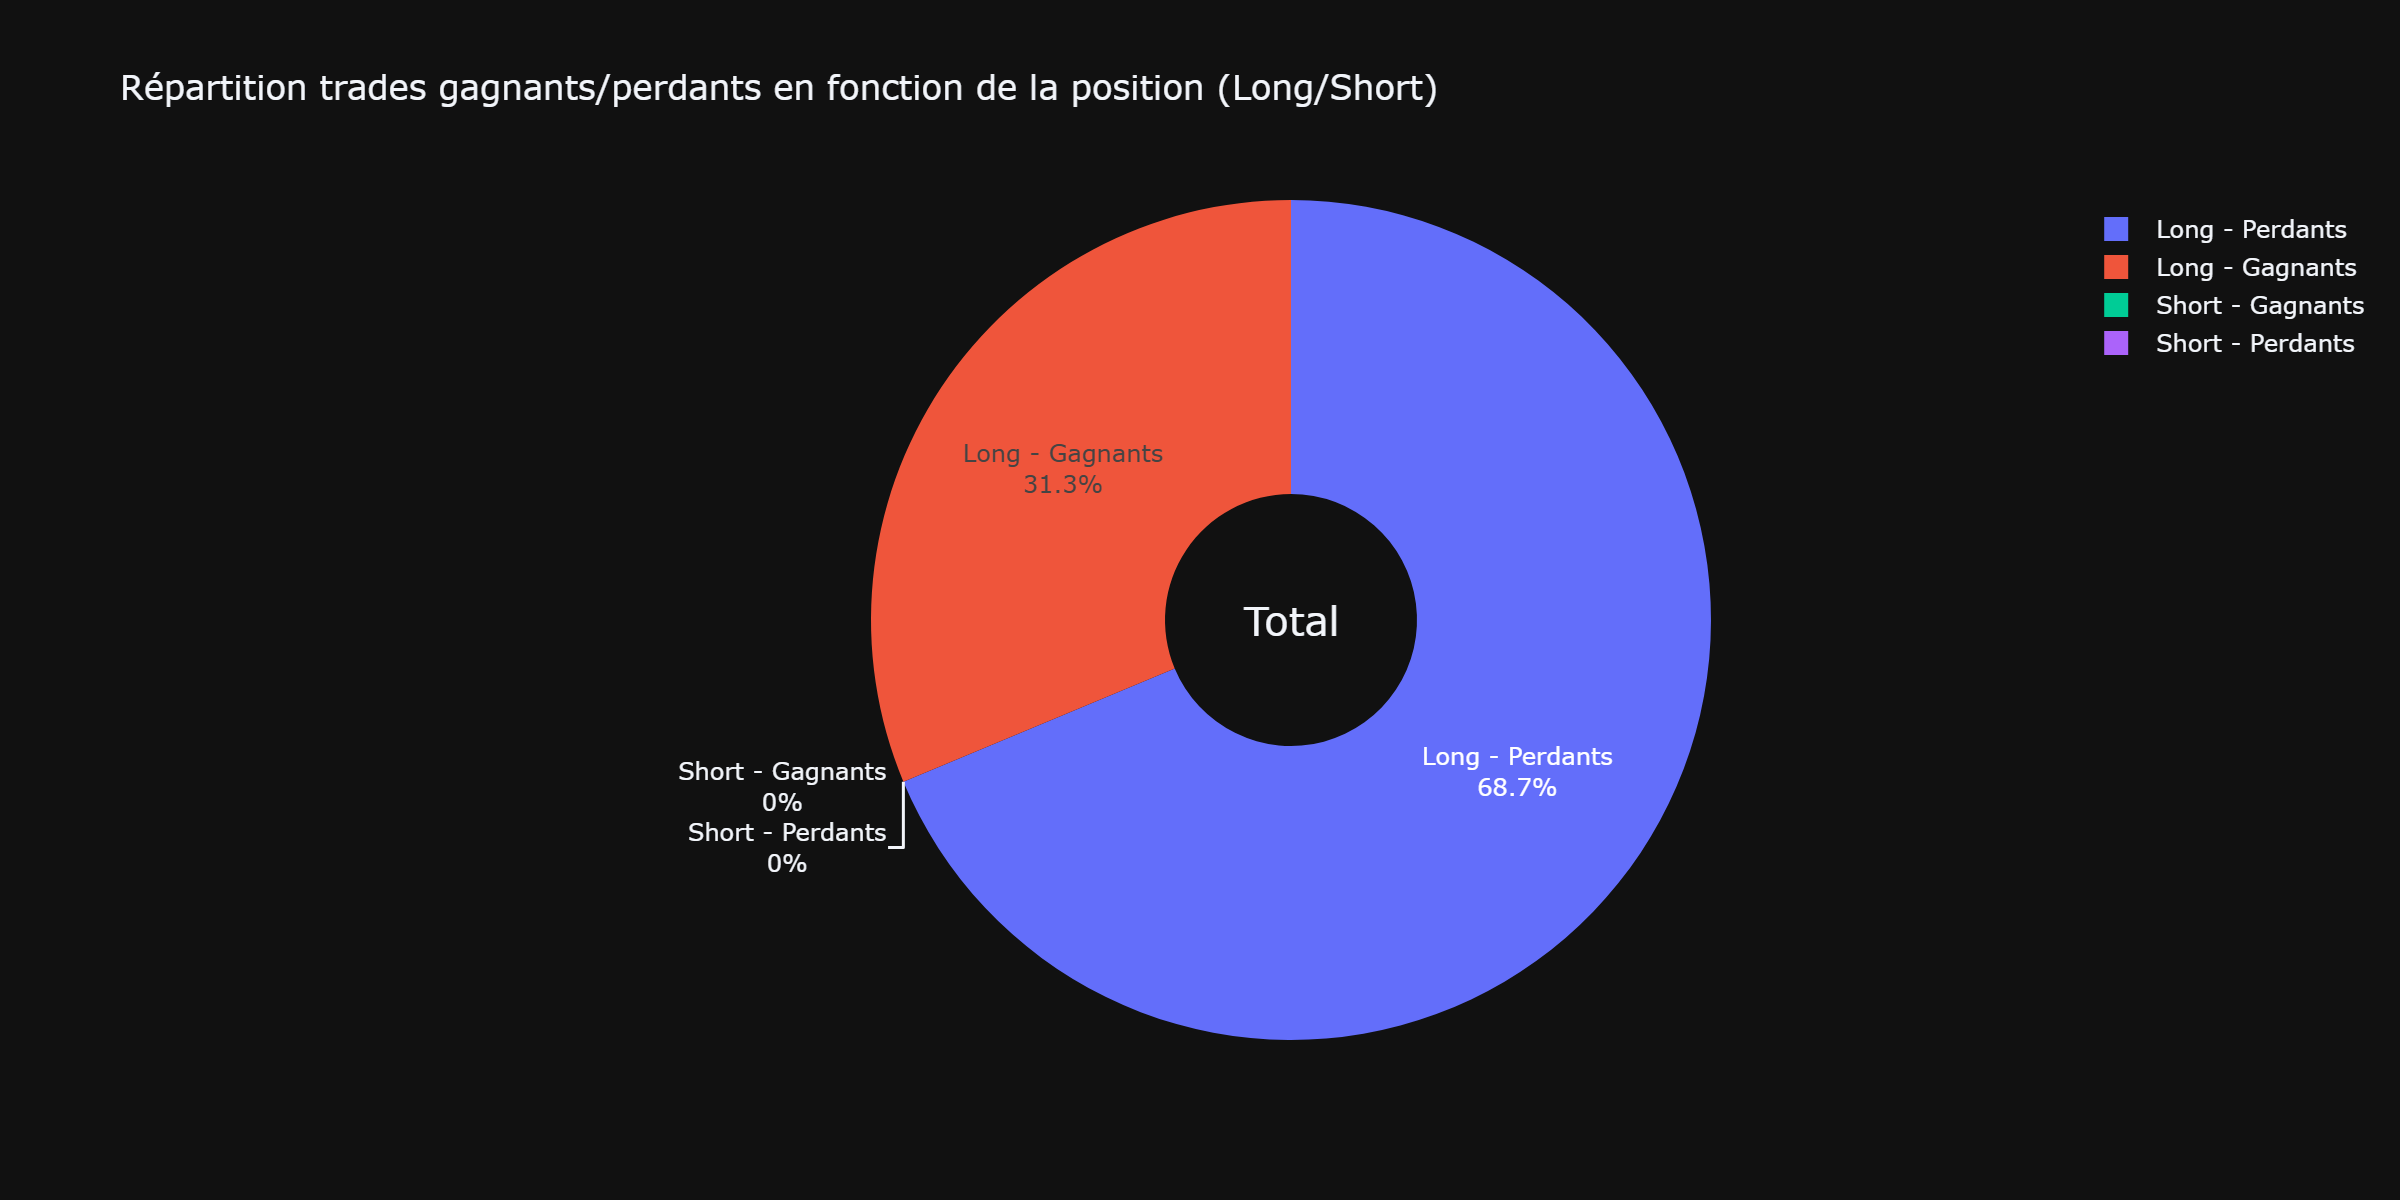
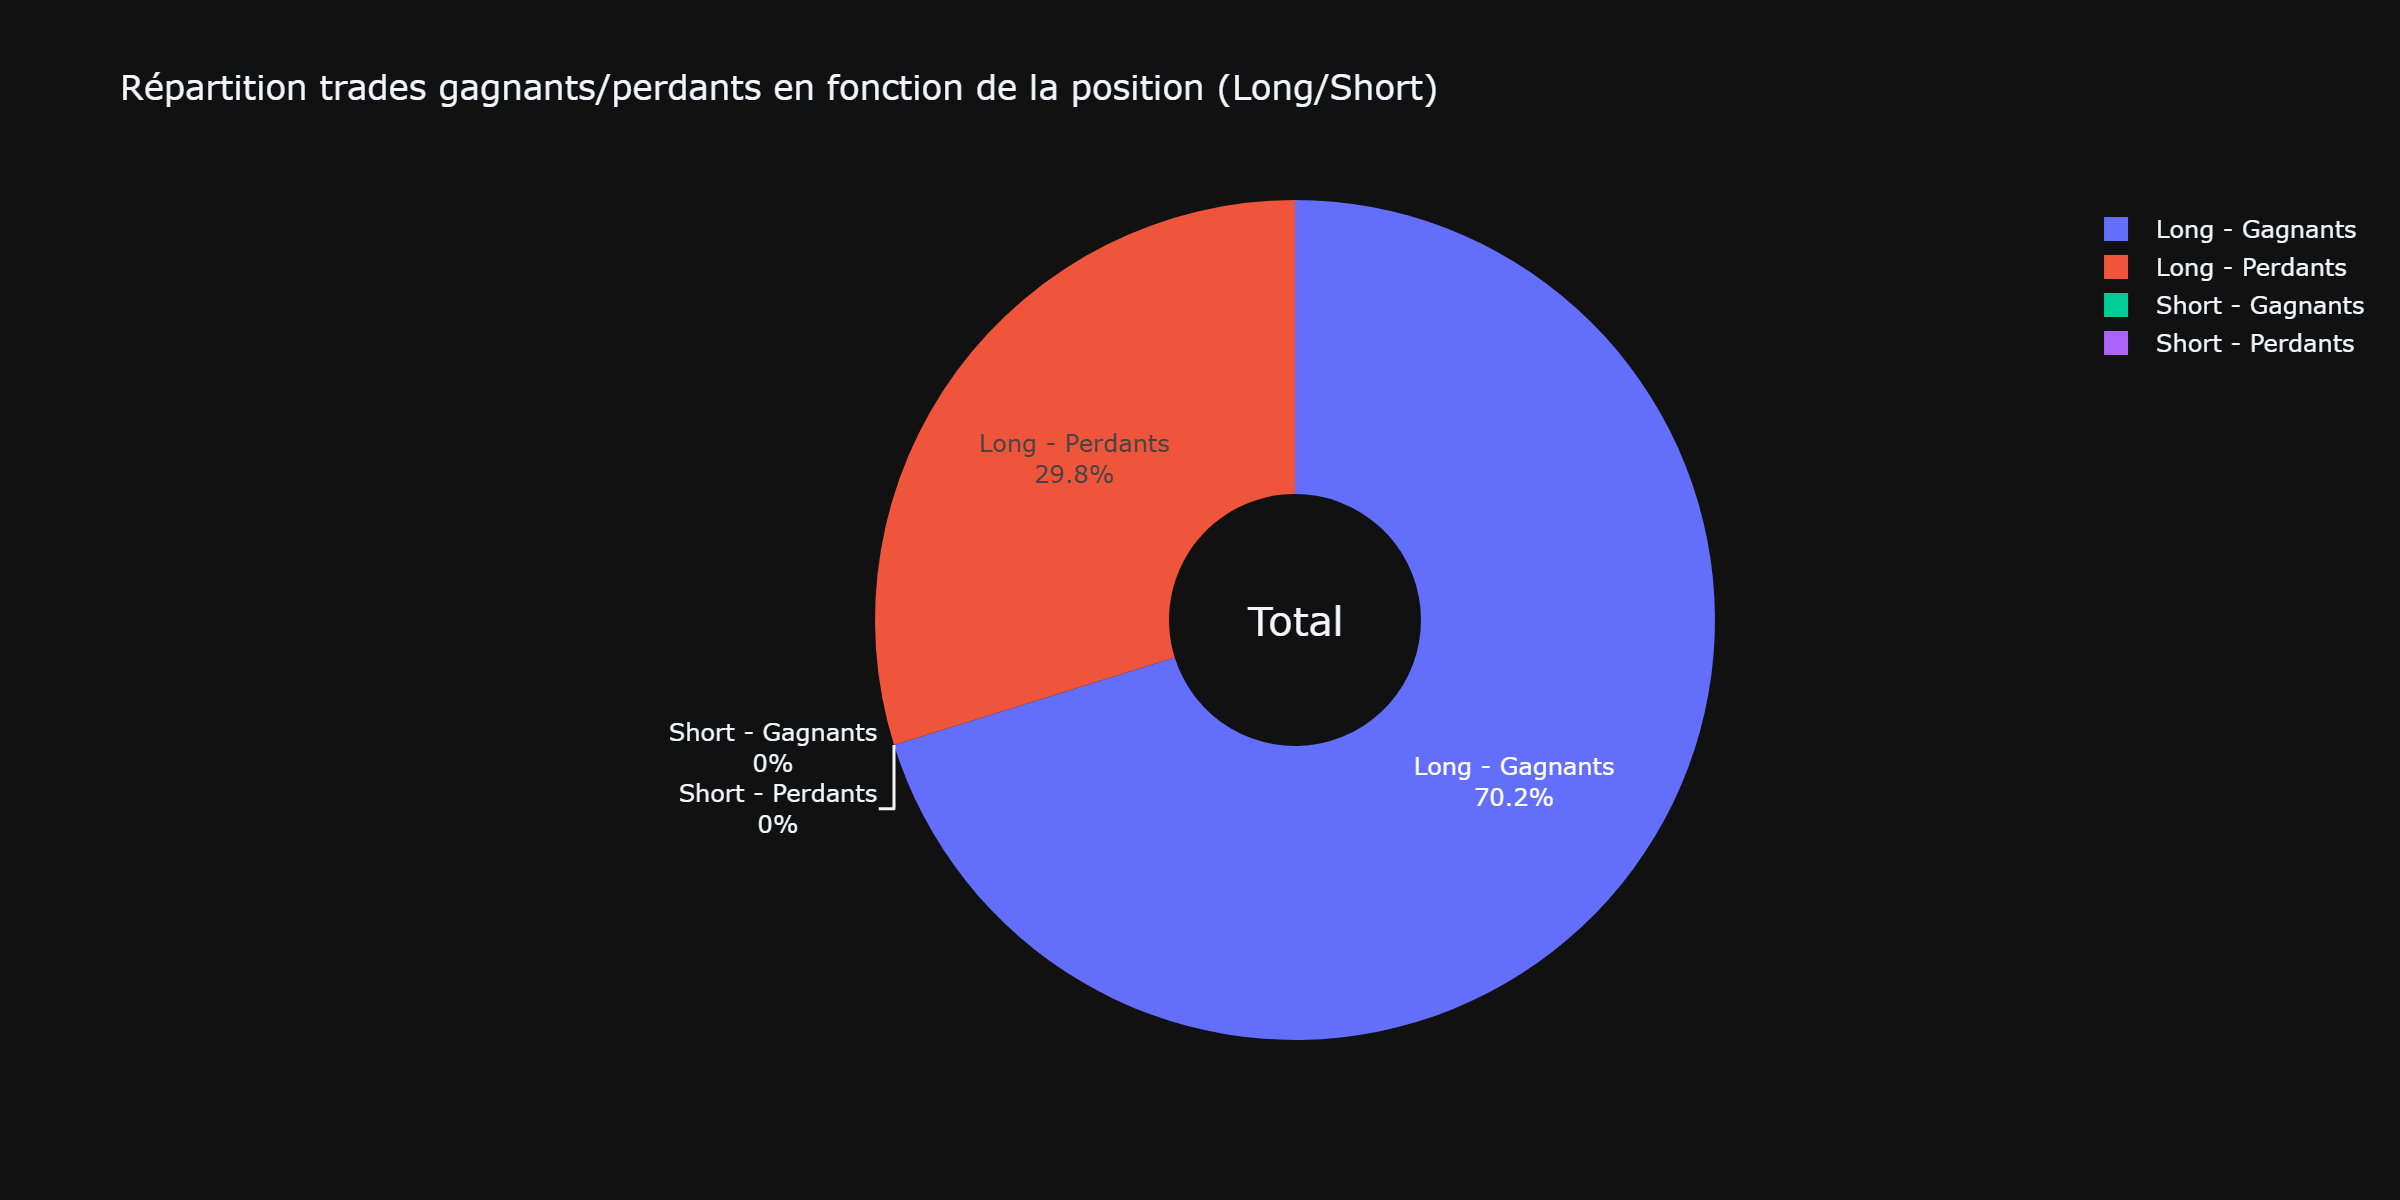
modif caliibration code to adapt for modifications

diff --git a/run_calibration.py b/run_calibration.py
@@ -1,7 +1,8 @@
-from tqdm import tqdm
-
-from src.data import load_histo_cac, load_stock_prices
-from src.utils import config_logger, save_single_graph, plot_calibration_results
+import pandas as pd
+from pathlib import Path
+from tqdm import tqdm 
+from src.data import load_compo_universe, load_stock_prices
+from src.utils import config_logger, format_financial_report, save_single_graph, plot_calibration_results
 from src.workflow import run_rolling_backtest, compute_rebal_date
 from config import Config
 
@@ -10,34 +11,62 @@ from config import Config
 # TODO: dans le tableau comparatif mettre les data du benchmark
 # TODO: mettre le formatting dans la librairie backtesting
 # TODO: faire cross-validation pour ma strat
-# TODO: finir de trouver les tickers du CAC
+# TODO: faire du volatility time management pour essayer de réduire la vol en baissant moins les returns pour booster sharp ratio
+# => cela pourrais définir notre date de rebal qui serait dynamique
+# TODO: corriger survivor bias
+# TODO: ajouter le rf asset
+# TODO: faire alpha against momentum
+
+# TODO: corriger les trous temporels dans nos df
 
 if __name__ == "__main__" :
     conf = Config()
 
     logger = config_logger()
-    logger.info('Running Calibration')
-
-
+    logger.info('Running strat')
 
     logger.info("Step1: Data Loadings")
-    histo_compo_cac = load_histo_cac()
-    all_tickers = [conf.BENCHMARK] + list(histo_compo_cac.columns)
-    stock_returns, stock_prices = load_stock_prices(all_tickers, univers=conf.BENCHMARK)
-    stock_returns.dropna(subset=[conf.BENCHMARK], inplace=True)
+    compo_universe = pd.read_csv(r"data\raw\compo_sp500_final.csv", parse_dates=['MbrStartDt', 'MbrEndDt'])
 
+    path = r"data\raw\stock_prices_final.csv"
+    stock_prices = pd.read_csv(path, parse_dates=['date'])
+    stock_prices.sort_values("date", inplace=True) # S'assurer que tout est trié avant
+    stock_prices['RET_calc'] = stock_prices.groupby("PERMNO")['PRC'].pct_change()
 
-    bench_returns = stock_returns[conf.BENCHMARK].copy()
-    df_stocks_ret = stock_returns.drop(columns=[conf.BENCHMARK]).copy()
+    stock_prices = stock_prices[stock_prices['date'] < conf.END_DATE_STRAT].copy()
+    stock_prices['PERMNO'] = stock_prices['PERMNO'].apply(str)
+    compo_universe['PERMNO'] = compo_universe['PERMNO'].apply(str)
 
+    df_fama = pd.read_csv(
+        r"data\raw\F-F_Research_Data_5_Factors_2x3_daily.csv", 
+        skiprows=3, 
+        skipfooter=1, 
+        sep=",", 
+        index_col=0, 
+        parse_dates=True, 
+        engine='python'
+        )
+    df_mom = pd.read_csv(
+        r"data\raw\F-F_Momentum_Factor_daily.csv", 
+        skiprows=12, 
+        skipfooter=1, 
+        sep=",", 
+        index_col=0, 
+        parse_dates=True, 
+        engine='python'
+        )
+    bench_returns = pd.concat([df_fama['Mkt-RF'], df_mom], axis=1)
+    bench_returns.dropna(inplace=True)
+    bench_returns = (bench_returns['Mkt-RF'] / 100).to_frame()
+    bench_returns = bench_returns[bench_returns.index < conf.END_DATE_STRAT].copy()
 
-    sharps = {}
+    
+    sharps= {}
     for window_value in tqdm(range(1, 25)) :
         WINDOW_list = [window_value]
-        rebal_dates = compute_rebal_date(window_value, stock_returns, bench_returns, conf.START_DATE, conf.UNIT, conf.STEP, logger)
-        engine = run_rolling_backtest(WINDOW_list, rebal_dates, stock_prices, df_stocks_ret, histo_compo_cac, logger, bench_returns, conf.UNIT, conf.INITIAL_CAPITAL, conf.BENCHMARK, conf.MAX_VOL)
+        rebal_dates = compute_rebal_date(conf.WINDOW, stock_prices, bench_returns, conf.START_DATE, conf.UNIT, conf.STEP, logger)
+        engine = run_rolling_backtest(WINDOW_list, rebal_dates, stock_prices, compo_universe, logger, bench_returns, conf.UNIT, conf.INITIAL_CAPITAL, conf.MAX_VOL, conf.END_DATE_STRAT)
         sharps[window_value] = engine.summary()['sharpe_ratio']
-
     fig = plot_calibration_results(sharps, robustness_range=(19, 22))
 
     save_single_graph(fig, "Calibration")

diff --git a/results/report.md b/results/report.md
@@ -1,25 +1,25 @@
 |                                                        | Value        |
 |:-------------------------------------------------------|:-------------|
-| ('Performance', 'Net Profit ($)')                      | 18,032       |
-| ('Performance', 'Annual Return')                       | 1.99%        |
-| ('Performance', 'Alpha (Ann.)')                        | 1.99%        |
-| ('Performance', 'Total Return')                        | 1.80%        |
-| ('Risk Profile', 'Sharpe Ratio')                       | 0.21         |
-| ('Risk Profile', 'Sortino Ratio')                      | 0.33         |
-| ('Risk Profile', 'Max Drawdown')                       | 10.08%       |
-| ('Risk Profile', 'Volatility')                         | 9.59%        |
-| ('Risk Profile', 'R-Squared')                          | 0.004        |
-| ('Trade Stats', 'Nb Transacs Total')                   | 2717         |
-| ('Trade Stats', 'Win Rate')                            | 31.3%        |
-| ('Trade Stats', 'Avg Winner')                          | 4.38%        |
-| ('Trade Stats', 'Avg Loser')                           | -5.36%       |
-| ('Trade Stats', 'Holding Period')                      | 28 jours     |
-| ('Autres / Détails', 'Calmar Ratio')                   | 0.2000       |
-| ('Autres / Détails', 'Max Cash Needed')                | 1003057.8900 |
-| ('Autres / Détails', 'Average Transac Day')            | 209.0000     |
-| ('Autres / Détails', 'Max Nb Transac Day')             | 496.0000     |
-| ('Autres / Détails', 'Daily Portfolio Average Return') | 0.0001       |
-| ('Autres / Détails', 'Avg Profit Per Ops')             | -0.0280      |
+| ('Performance', 'Net Profit ($)')                      | 58,838       |
+| ('Performance', 'Annual Return')                       | 6.46%        |
+| ('Performance', 'Alpha (Ann.)')                        | 3.00%        |
+| ('Performance', 'Total Return')                        | 5.83%        |
+| ('Risk Profile', 'Sharpe Ratio')                       | 0.76         |
+| ('Risk Profile', 'Sortino Ratio')                      | 1.22         |
+| ('Risk Profile', 'Max Drawdown')                       | 8.96%        |
+| ('Risk Profile', 'Volatility')                         | 8.47%        |
+| ('Risk Profile', 'R-Squared')                          | 0.032        |
+| ('Trade Stats', 'Nb Transacs Total')                   | 2300         |
+| ('Trade Stats', 'Win Rate')                            | 70.2%        |
+| ('Trade Stats', 'Avg Winner')                          | 5.07%        |
+| ('Trade Stats', 'Avg Loser')                           | -3.37%       |
+| ('Trade Stats', 'Holding Period')                      | 31 jours     |
+| ('Autres / Détails', 'Calmar Ratio')                   | 0.7200       |
+| ('Autres / Détails', 'Max Cash Needed')                | 1008780.3200 |
+| ('Autres / Détails', 'Average Transac Day')            | 176.9200     |
+| ('Autres / Détails', 'Max Nb Transac Day')             | 499.0000     |
+| ('Autres / Détails', 'Daily Portfolio Average Return') | 0.0002       |
+| ('Autres / Détails', 'Avg Profit Per Ops')             | 0.0308       |
 | ('Autres / Détails', 'Alpha')                          | 0.0001       |
-| ('Autres / Détails', 'Residuals Std')                  | 0.0060       |
+| ('Autres / Détails', 'Residuals Std')                  | 0.0053       |
 | ('Autres / Détails', 'N Observations')                 | 332.0000     |
